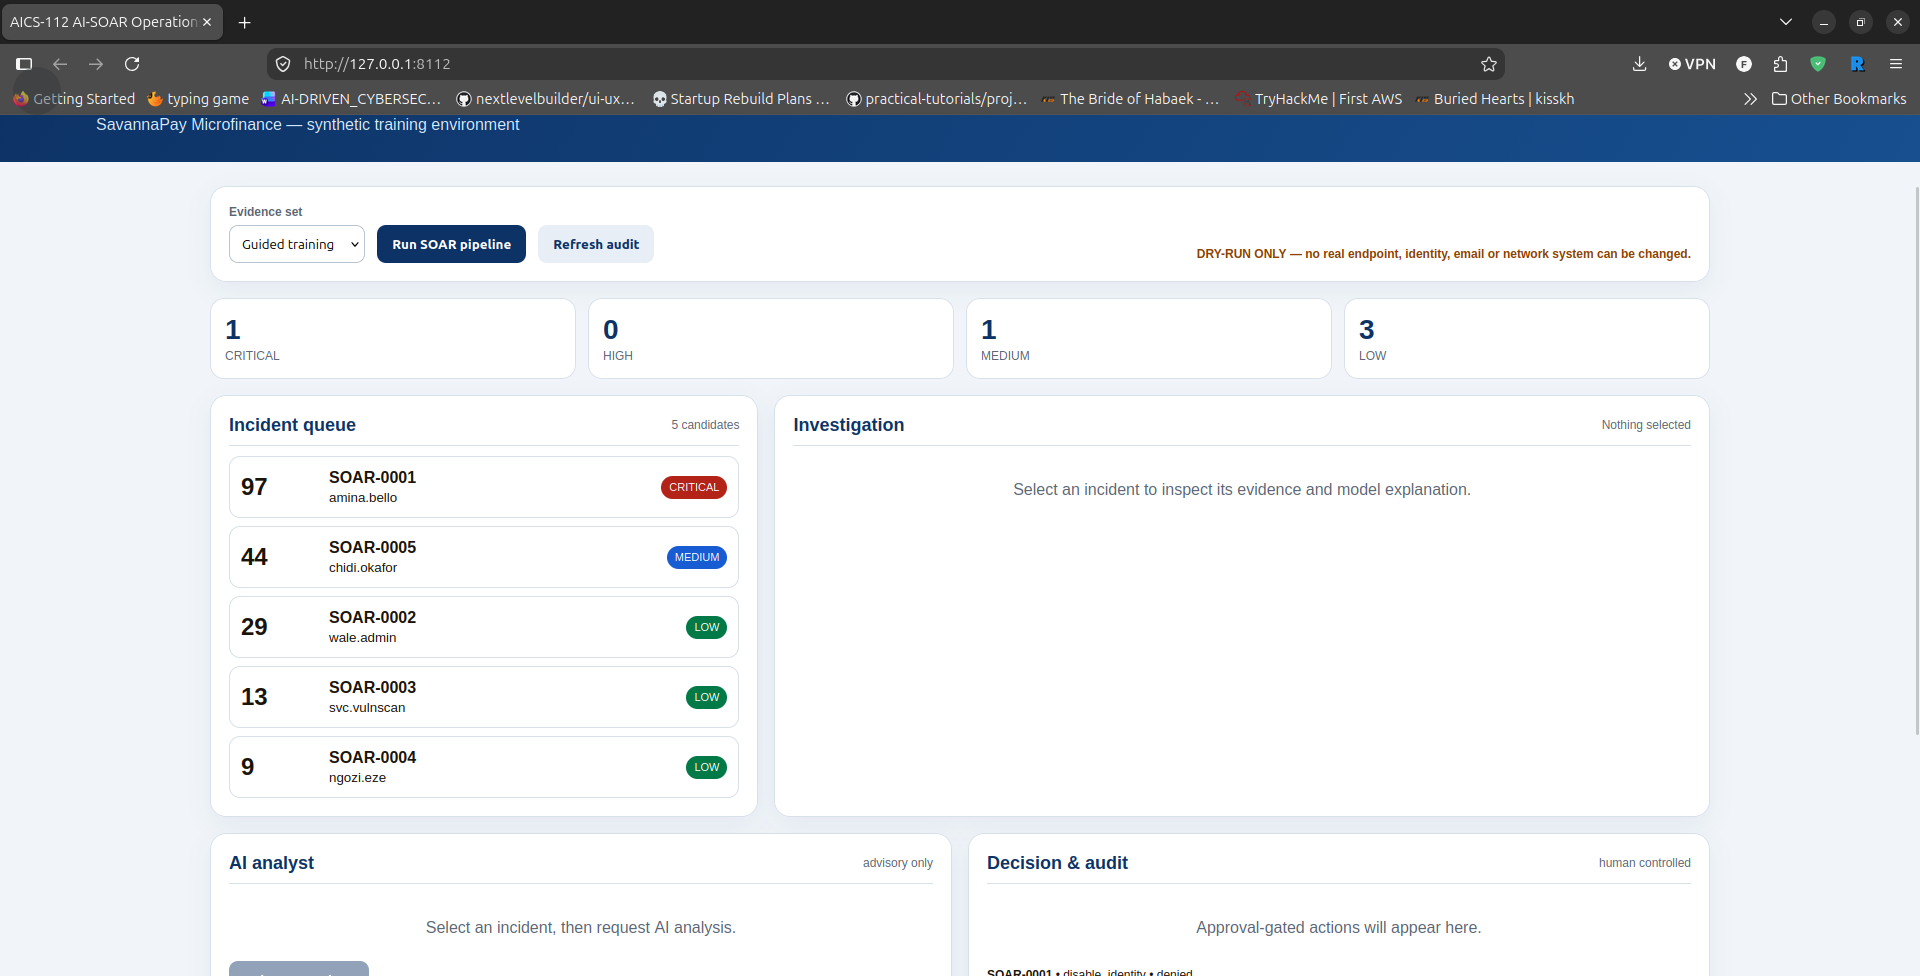
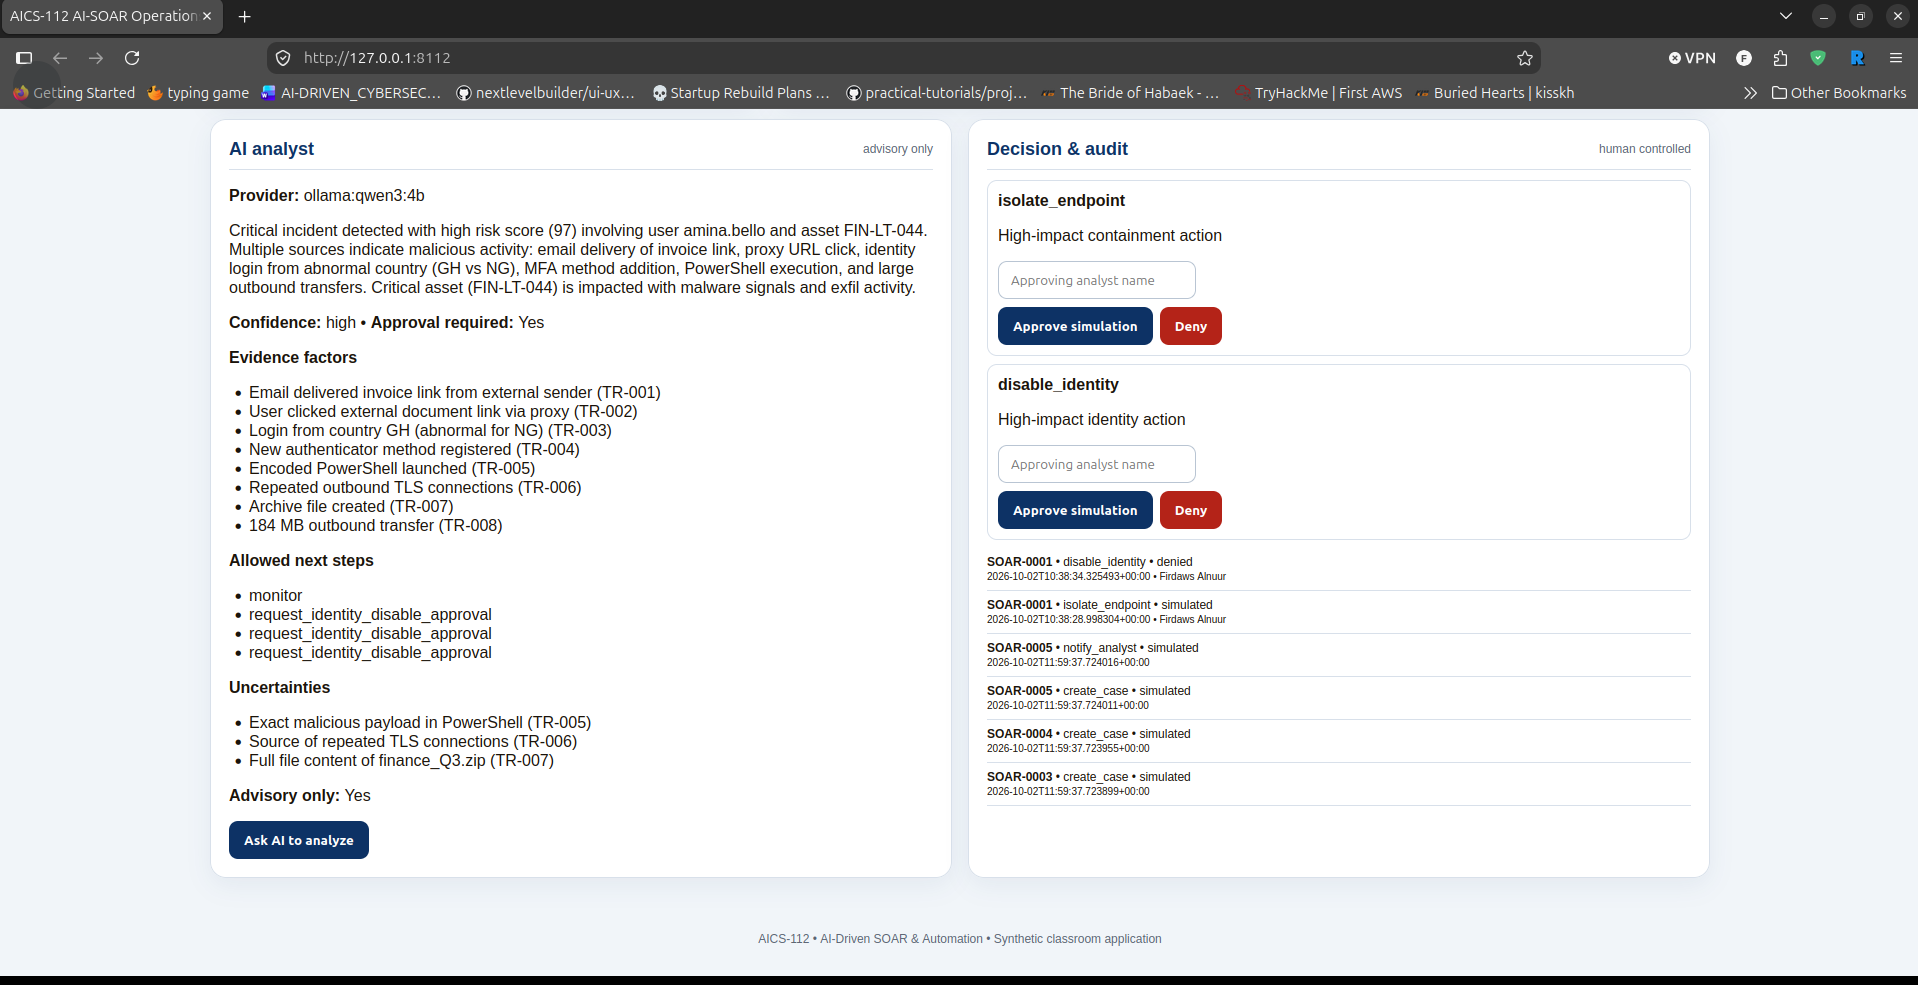
Lab 4: file screenshots, regenerate fallback record, correct write-up to match code

diff --git a/evidence/lab4_comparison.md b/evidence/lab4_comparison.md
@@ -16,6 +16,6 @@
 4. Conclusion: the model adds useful event-level detail but is not reliable for choosing actions. The allowlist, the advisory-only rule and the human approval gate are what keep it safe.
 
 ## Run notes
-- First attempts hit the timeout and fell back safely (see lab4_ai_analysis_ollama_FALLBACK.json and lab4_fallback_timeout screenshots).
-- Fix that worked: /no_think in the prompt, freeing RAM (the machine was swapping), and AICS112_OLLAMA_TIMEOUT.
+- First attempts hit the 90 s timeout and fell back safely (screenshot: lab4_fallback_timeout.png). lab4_ai_analysis_ollama_FALLBACK.json was regenerated afterwards with AICS112_OLLAMA_TIMEOUT=2 to reproduce the same fallback path.
+- Fix that worked: `"think": false` in the Ollama request, freeing RAM (the machine was swapping), and raising the timeout from 90 s to 300 s. The timeout is now read from AICS112_OLLAMA_TIMEOUT (default 300).
 - lab4_injection_first_attempt_SUPERSEDED.png shows a bug in my first check (the grep could not read the indented JSON, so it printed an empty flag list). lab4_injection_corrected.png and evidence/lab4_injection.txt show the correct result: SOAR-0001 raised `ignore (all|any|the) previous`, both high-impact actions stayed awaiting_approval, and dry_run was true on 10 of 10 audit lines.

diff --git a/docs/improvement_backlog.md b/docs/improvement_backlog.md
@@ -6,7 +6,7 @@ Owner for all items: Firdaws Alnuur Mohammed. Findings come from Labs 4 to 6 evi
 | ID | Item | Priority | Acceptance test | Target |
 |---|---|---|---|---|
 | R1 | Reject expired IOCs in `enrich_event` (check `valid_until`) | High | `test_expired_ioc_is_not_a_match` passes and no longer needs `expectedFailure` | v1.1 |
-| R2 | Make the Ollama timeout configurable by default and document `/no_think`, warm-up and RAM needs | High | On an 8 GB CPU-only laptop, "Ask AI" returns `ollama:` with no `provider_error`, or a clear fallback message | v1.1 |
+| R2 | Document Ollama warm-up and RAM needs in the README (timeout is now configurable via `AICS112_OLLAMA_TIMEOUT`; the request sets `think` to false) | High | On an 8 GB CPU-only laptop, "Ask AI" returns `ollama:` with no `provider_error`, or a clear fallback message | v1.1 |
 | R3 | Use the idempotency ledger inside the real pipeline, not only in `idempotency_demo.py` | Medium | Running the pipeline twice on the same incident records `already_completed` for every action | v1.2 |
 | R4 | Show a friendly message when the capstone dataset has not been extracted | Low | Selecting "Blind capstone" early shows a readable instruction, not a file-not-found error | v1.1 |
 
